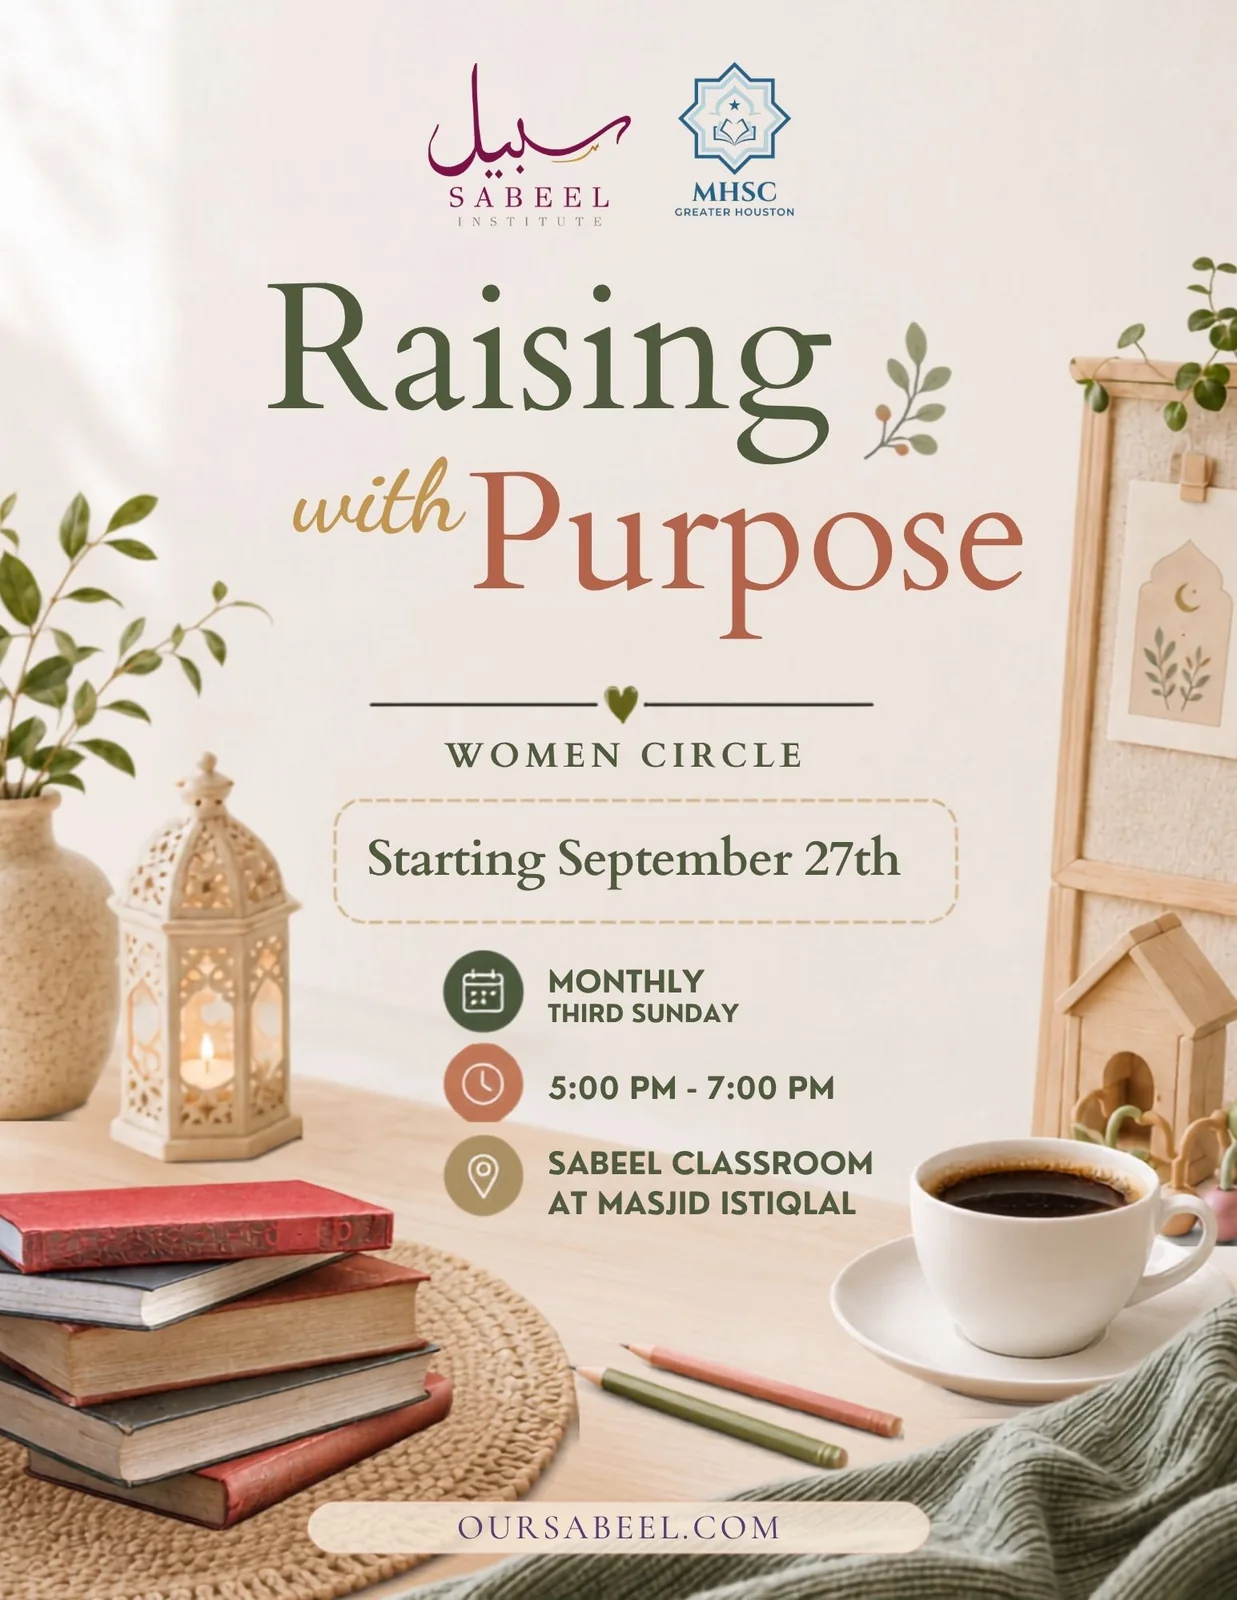
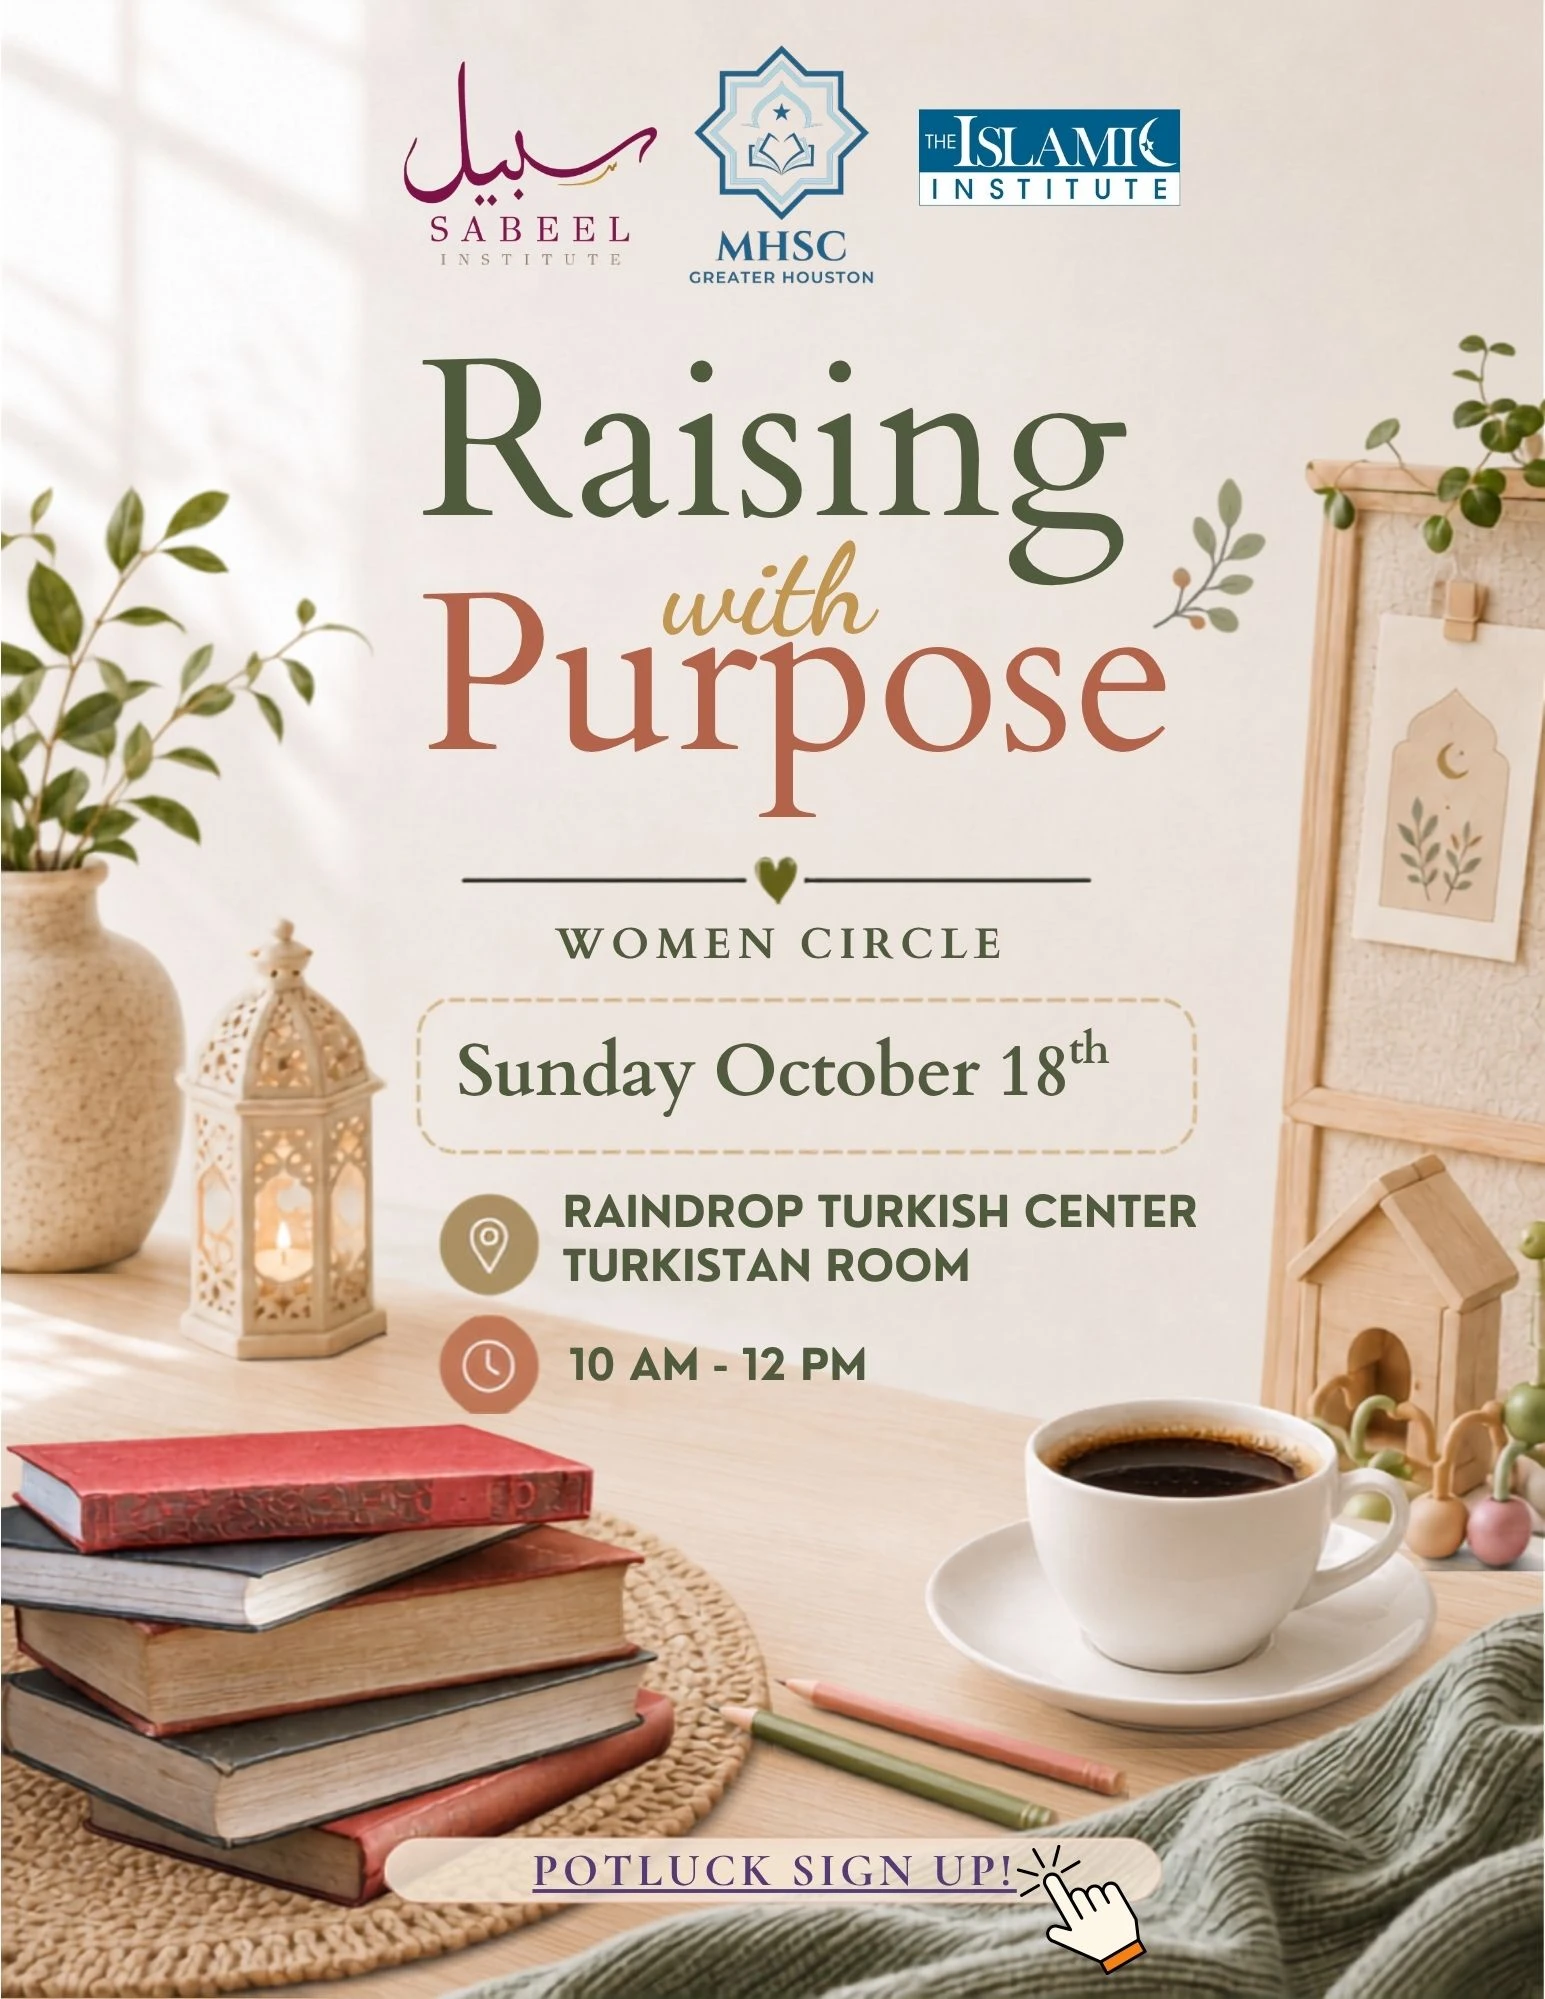
Update course details for Raising with Purpose and Race to Jannah

diff --git a/src/content/programs/raising-with-purpose/index.md b/src/content/programs/raising-with-purpose/index.md
@@ -6,21 +6,15 @@ summary: A monthly circle, with the Muslim Homeschooling Community of Greater Ho
 area: womens-learning
 schedule:
   - start: 2026-10-18
-    time: 5:00–7:00 PM
+    time: 10:00 AM–12:00 PM
     label: Monthly
 audience: Homeschooling mothers
 format: On-site
-venue: masjid-istiqlal
-location: Sabeel Classroom at Masjid Istiqlal
+venue: raindrop-turkish-center
+location: Raindrop Turkish Center (Turkistan Room)
 fee: $5
 registration:
   zeffy: raising-with-purpose
-instructors:
-  - mariam-sattar
-  - name: Pelin Unal
-    role: Conversation guest
-  - name: Najia Salim
-    role: Conversation guest
 expect: |
   Each session has three parts:
 
@@ -35,11 +29,5 @@ flyer: ./flyer.webp
 A monthly support circle for homeschooling moms, in collaboration with MHSC (Muslim HomeSchooling Community of Greater Houston).
 
 Each gathering is thoughtfully curated to give us time to connect with one another and reflect on our purpose and intentions in homeschooling — what brought us here, what we value most, and what we hope to nurture in our children beyond academics.
-
-## This month — Sunday, October 18
-
-- **Nourish** — Halaqah with Ust. Mariam Sattar, Sabeel Institute
-- **Connect** — In conversation with Pelin Unal and Najia Salim
-- **Create** — “Unwind and Untangle,” a mindful reflection activity
 
 Looking forward to this beautiful suhbah, insha Allah!

diff --git a/src/content/programs/race-to-jannah/index.md b/src/content/programs/race-to-jannah/index.md
@@ -5,9 +5,9 @@ subtitle: A BoxCar Adventure
 summary: Build your own wearable boxcar, race through fun challenges, and discover how niyyah, sabr, salah, dhikr, shukr, and good akhlaq help us on our journey to Jannah.
 area: youth-children
 schedule:
-  - start: 2026-10-31
+  - start: 2026-11-01
     time: 2:30–4:30 PM
-    repeat: FREQ=DAILY;COUNT=2
+    repeat: FREQ=WEEKLY;COUNT=2
 audience: Children 6–10
 format: On-site
 venue: masjid-istiqlal
